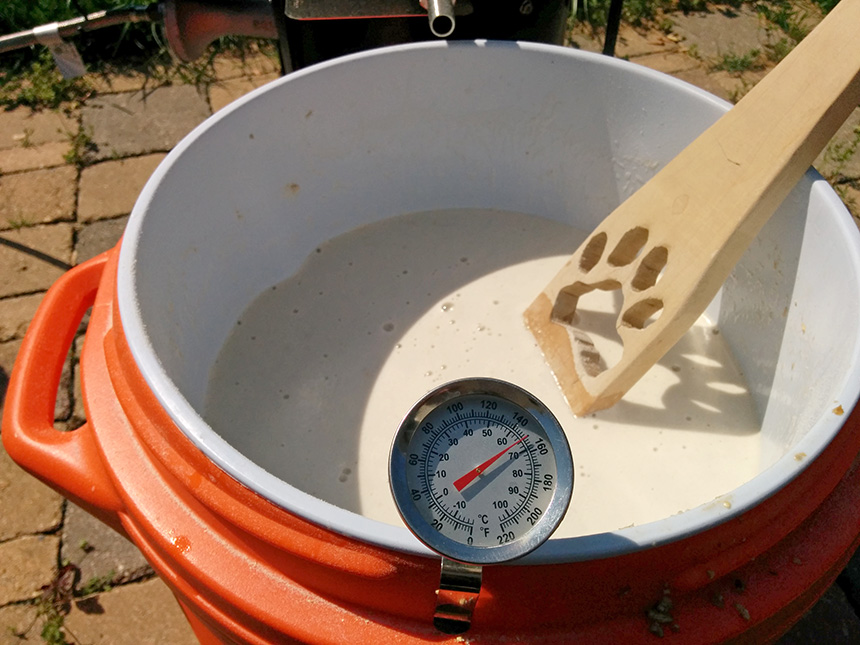
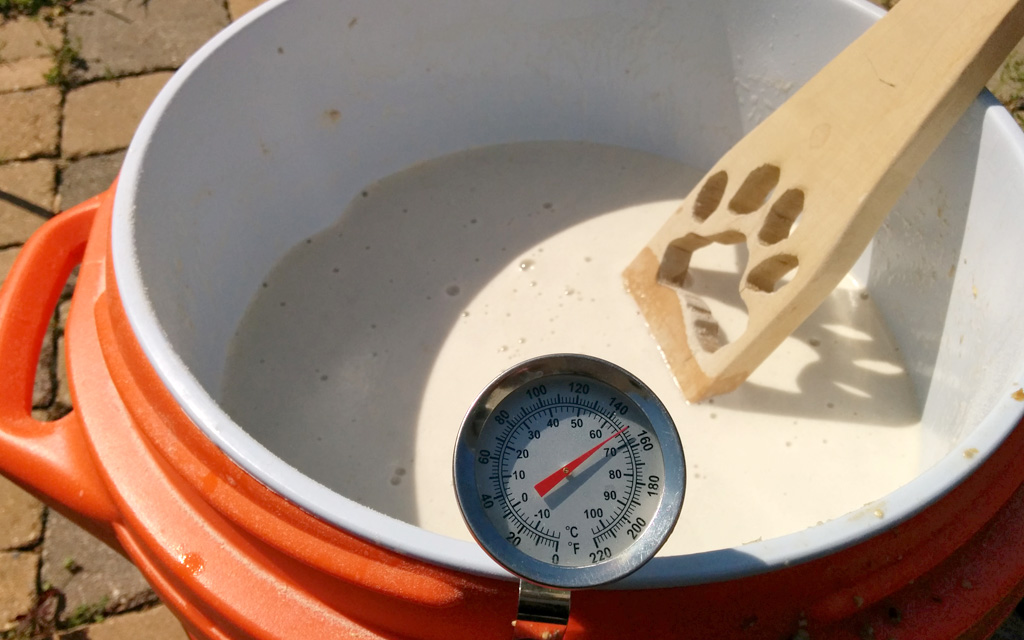
Step 3 completed

diff --git a/index.html b/index.html
@@ -36,7 +36,7 @@
 				.full .progress div {
 					border-bottom-color: #A6C154;
 				}
-				.cover h2 { color: #fff; }
+				.cover h2 { color: #fff; text-shadow: 2px 2px 5px #333; }
 				img.floatl {
 					float: left;
 				}
@@ -45,7 +45,9 @@
 					margin-left: 50px;
 					width: 50%;
 				}
-
+				small {
+					font-size: 0.75em;
+				}
 				.cover p span { padding: 5px 20px; background: rgba(255,255,255, 0.75); color: #000; }
 		</style>
 </head>
@@ -145,28 +147,66 @@ techniques (e.g. decoction, first wort hopping)</li>
 		</ul>
 	</div></section>
 
-
-	<section class="slide"><div>
+	
+	<section class="slide cover"><div>
 		<h2>Step #3 - Mashing</h2>
-		<img src="pictures/cpvc-mainifold.jpg" alt="CPVC Manifold">
+		<img src="pictures/mash-in.jpg" alt="Mash In">
 	</div></section>
 
 
 	<section class="slide"><div>
-		<h2>Ingredients - Fermentables</h2>
-		<ul>
-			<li>What is malt?</li>
-			<li>Liquid Malt vs Dried Malt Extract</li>
-			<li>Full Boil vs Partial Boil</li>
-			<li>Sugar, honey and other fermentables</li>
+		<h2>Step #3 - Mashing</h2>
+		<img src="pictures/cpvc-mainifold.jpg" alt="CPVC Manifold" class="floatl" height="400px">
+	</div></section>
+
+
+	<section class="slide"><div>
+		<h2>Step #3 - Single Infusion Mash</h2>
+		<ol>
+			<li>Water to Grain Ratio (1.25 - 1.5 quarts per 1 lb of grain)</li>
+			<li>Proper Mash Temperature (aim for 148-156<sup>&deg;</sup>F)</li>
+			<li>Basic Process
+				<ul>
+					<li>Heat up your water around 20<sup>&deg;</sup> warmer than target mash temp
+						<ul>
+							<li><small>Optional Step: In a separate pot heat water to 150-170<sup>&deg;</sup>F to pre-heat the mash tun</small></li>
+						</ul>
+					</li>
+					<li>Add ~1 gallon of water to mash tun</li>
+					<li>Alternate adding grain and water stirring often
+					<li>Check temperature and adjust with hot / cold water</li>
+					
+				</ul>
+			</li>
+			<li>Mash Out and Lautering <small>(more on this later)</small></li>
+		</ol>
+	</div></section>
+
+
+	<section class="slide"><div>
+		<h2>Step #3 - Mashing</h2>
+		<img src="pictures/mash-temp-chart.gif" alt="Mash temp chart" class="floatl" height="400px">
+		<ul class="floatl">
+			<li><b>Step Mashing</b> can give the brewer an  opportunity to enact 
+various enzymes at various stages throughout the mash. This process will impact the flavor and the ferment-ability of the wort.</li>
+			
 		</ul>
-		<p class="note">My Recommendation - Use DME and a trusted recipe from a good source. Let's pause for a moment to talk about "kits."</p>
 	</div></section>
 
 	
 	<section class="slide"><div>
-		<h2>A Brief Aside - Kit Beers</h2>
-		<img src="pictures/kit.jpg" alt="An example kit beer">
+		<h2>Step #3 - Mashing</h2>
+		<ul>
+			<li>Mash temperature impacts the fermentability and body of the wort (the lower the mash, the more fermentable the wort, and the dryer the fermented beer).
+
+			<li>Water/grist ratio will also impact fermentability and body of the wort.
+
+			<li>Ph of the mash will impact character of the wort
+
+			<li>Step Mashing &mdash; raising and lowering the mash  temperature throughout the duration of the mash
+
+			<li>Decoction &mdash; Pulling some of the mash out and "cooking" it before returning it to the mash.
+		</ul>
 	</div></section>
 
 
